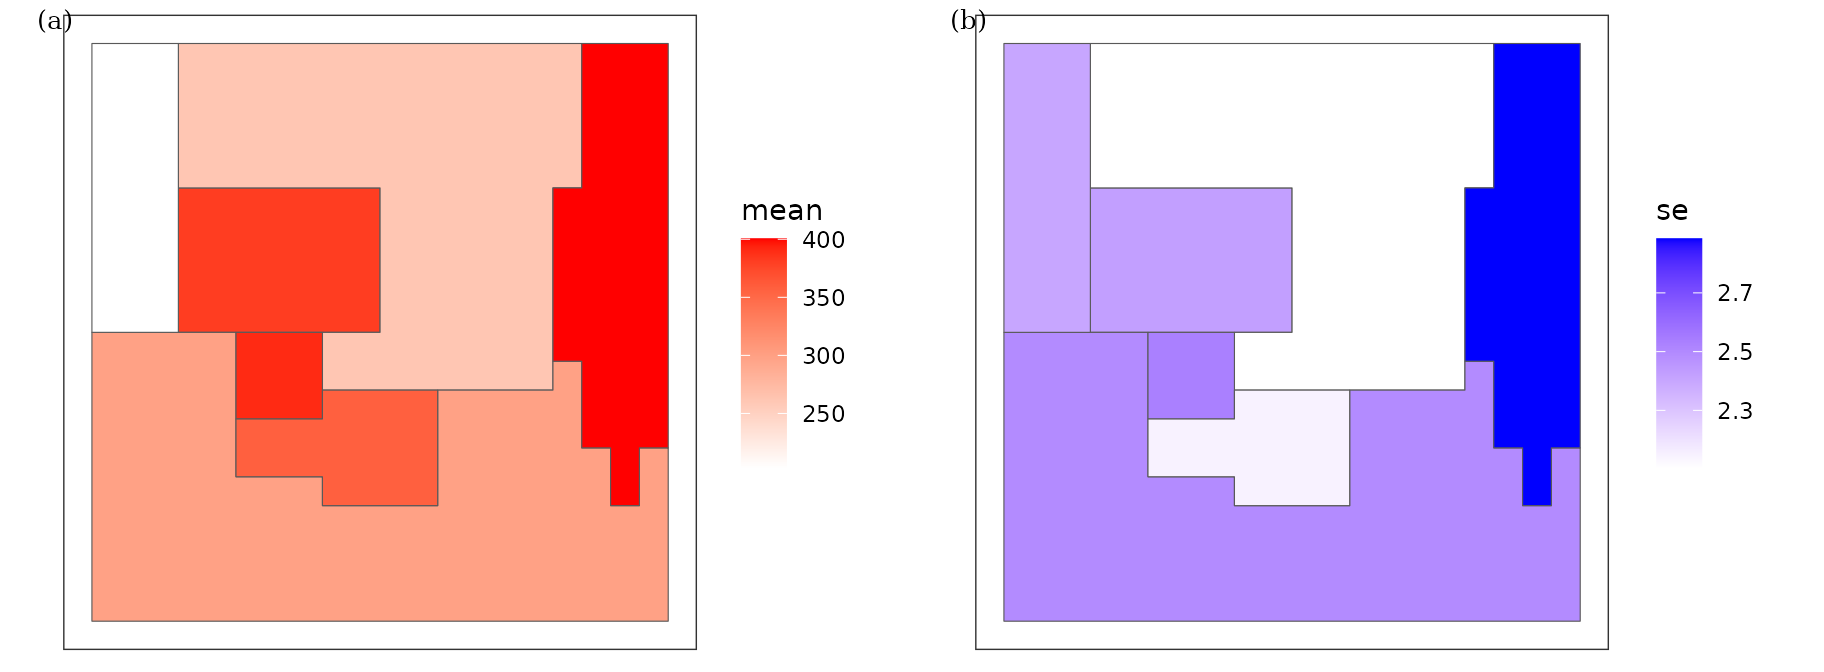
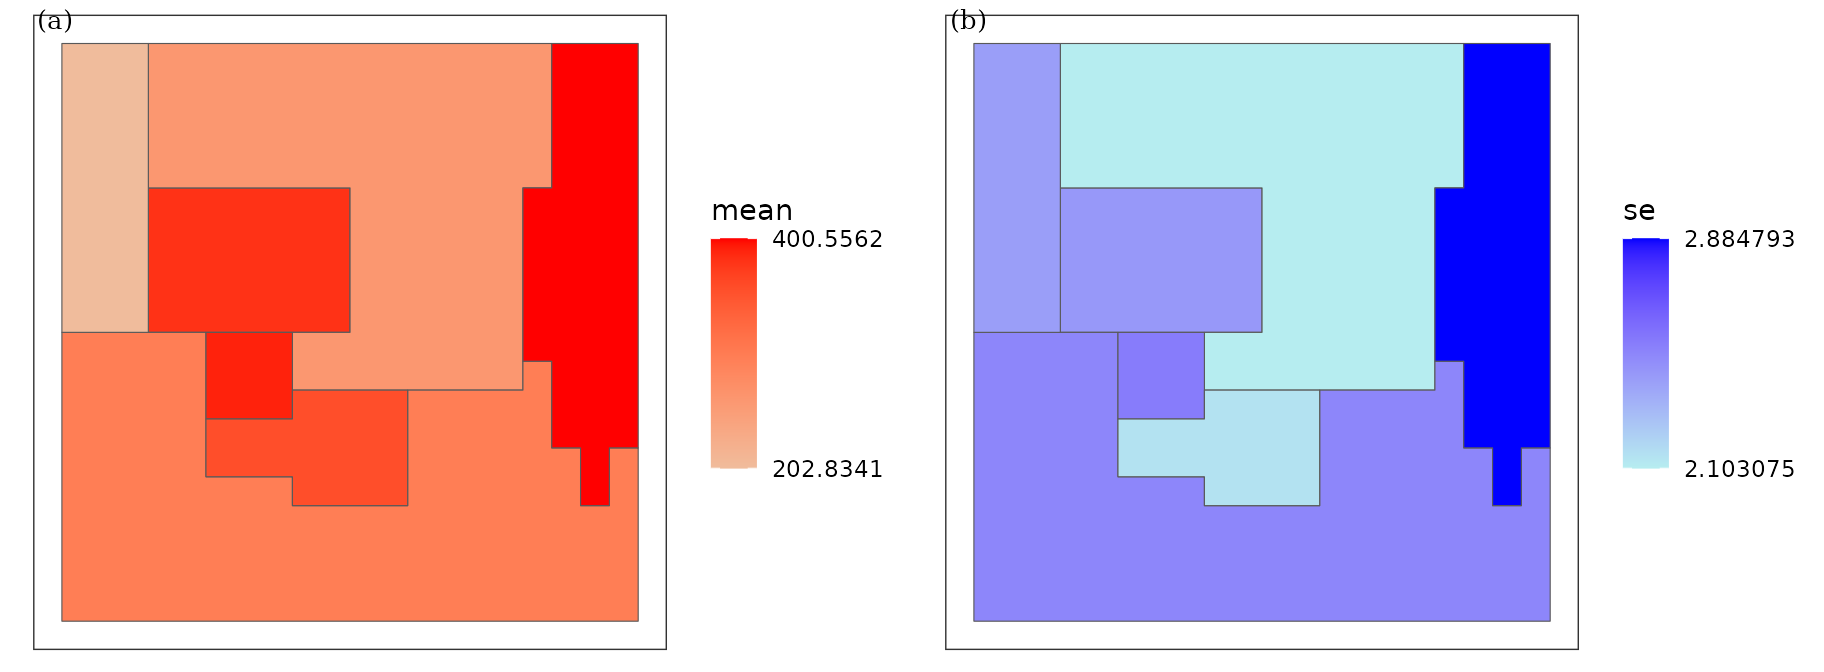
Deploying to gh-pages from @ SpatLyu/spEcula@2522d881dfac7c5d32cb272c1c871c69b7825a2f 🚀

diff --git a/news/index.html b/news/index.html
@@ -1,0 +1,82 @@
+<!DOCTYPE html>
+<!-- Generated by pkgdown: do not edit by hand --><html lang="en"><head><meta http-equiv="Content-Type" content="text/html; charset=UTF-8"><meta charset="utf-8"><meta http-equiv="X-UA-Compatible" content="IE=edge"><meta name="viewport" content="width=device-width, initial-scale=1, shrink-to-fit=no"><title>Changelog • spEcula</title><!-- favicons --><link rel="icon" type="image/png" sizes="16x16" href="../favicon-16x16.png"><link rel="icon" type="image/png" sizes="32x32" href="../favicon-32x32.png"><link rel="apple-touch-icon" type="image/png" sizes="180x180" href="../apple-touch-icon.png"><link rel="apple-touch-icon" type="image/png" sizes="120x120" href="../apple-touch-icon-120x120.png"><link rel="apple-touch-icon" type="image/png" sizes="76x76" href="../apple-touch-icon-76x76.png"><link rel="apple-touch-icon" type="image/png" sizes="60x60" href="../apple-touch-icon-60x60.png"><script src="../deps/jquery-3.6.0/jquery-3.6.0.min.js"></script><meta name="viewport" content="width=device-width, initial-scale=1, shrink-to-fit=no"><link href="../deps/bootstrap-5.3.1/bootstrap.min.css" rel="stylesheet"><script src="../deps/bootstrap-5.3.1/bootstrap.bundle.min.js"></script><!-- Font Awesome icons --><link rel="stylesheet" href="https://cdnjs.cloudflare.com/ajax/libs/font-awesome/5.12.1/css/all.min.css" integrity="sha256-mmgLkCYLUQbXn0B1SRqzHar6dCnv9oZFPEC1g1cwlkk=" crossorigin="anonymous"><link rel="stylesheet" href="https://cdnjs.cloudflare.com/ajax/libs/font-awesome/5.12.1/css/v4-shims.min.css" integrity="sha256-wZjR52fzng1pJHwx4aV2AO3yyTOXrcDW7jBpJtTwVxw=" crossorigin="anonymous"><!-- bootstrap-toc --><script src="https://cdn.jsdelivr.net/gh/afeld/bootstrap-toc@v1.0.1/dist/bootstrap-toc.min.js" integrity="sha256-4veVQbu7//Lk5TSmc7YV48MxtMy98e26cf5MrgZYnwo=" crossorigin="anonymous"></script><!-- headroom.js --><script src="https://cdnjs.cloudflare.com/ajax/libs/headroom/0.11.0/headroom.min.js" integrity="sha256-AsUX4SJE1+yuDu5+mAVzJbuYNPHj/WroHuZ8Ir/CkE0=" crossorigin="anonymous"></script><script src="https://cdnjs.cloudflare.com/ajax/libs/headroom/0.11.0/jQuery.headroom.min.js" integrity="sha256-ZX/yNShbjqsohH1k95liqY9Gd8uOiE1S4vZc+9KQ1K4=" crossorigin="anonymous"></script><!-- clipboard.js --><script src="https://cdnjs.cloudflare.com/ajax/libs/clipboard.js/2.0.11/clipboard.min.js" integrity="sha512-7O5pXpc0oCRrxk8RUfDYFgn0nO1t+jLuIOQdOMRp4APB7uZ4vSjspzp5y6YDtDs4VzUSTbWzBFZ/LKJhnyFOKw==" crossorigin="anonymous" referrerpolicy="no-referrer"></script><!-- search --><script src="https://cdnjs.cloudflare.com/ajax/libs/fuse.js/6.4.6/fuse.js" integrity="sha512-zv6Ywkjyktsohkbp9bb45V6tEMoWhzFzXis+LrMehmJZZSys19Yxf1dopHx7WzIKxr5tK2dVcYmaCk2uqdjF4A==" crossorigin="anonymous"></script><script src="https://cdnjs.cloudflare.com/ajax/libs/autocomplete.js/0.38.0/autocomplete.jquery.min.js" integrity="sha512-GU9ayf+66Xx2TmpxqJpliWbT5PiGYxpaG8rfnBEk1LL8l1KGkRShhngwdXK1UgqhAzWpZHSiYPc09/NwDQIGyg==" crossorigin="anonymous"></script><script src="https://cdnjs.cloudflare.com/ajax/libs/mark.js/8.11.1/mark.min.js" integrity="sha512-5CYOlHXGh6QpOFA/TeTylKLWfB3ftPsde7AnmhuitiTX4K5SqCLBeKro6sPS8ilsz1Q4NRx3v8Ko2IBiszzdww==" crossorigin="anonymous"></script><!-- pkgdown --><script src="../pkgdown.js"></script><meta property="og:title" content="Changelog"><meta property="og:image" content="https://spatlyu.github.io/spEcula/logo.png"><!-- mathjax --><script src="https://cdnjs.cloudflare.com/ajax/libs/mathjax/2.7.5/MathJax.js" integrity="sha256-nvJJv9wWKEm88qvoQl9ekL2J+k/RWIsaSScxxlsrv8k=" crossorigin="anonymous"></script><script src="https://cdnjs.cloudflare.com/ajax/libs/mathjax/2.7.5/config/TeX-AMS-MML_HTMLorMML.js" integrity="sha256-84DKXVJXs0/F8OTMzX4UR909+jtl4G7SPypPavF+GfA=" crossorigin="anonymous"></script><!--[if lt IE 9]>
+<script src="https://oss.maxcdn.com/html5shiv/3.7.3/html5shiv.min.js"></script>
+<script src="https://oss.maxcdn.com/respond/1.4.2/respond.min.js"></script>
+<![endif]--></head><body>
+    <a href="#main" class="visually-hidden-focusable">Skip to contents</a>
+    
+
+    <nav class="navbar fixed-top navbar-dark navbar-expand-lg bg-primary" data-bs-theme="dark"><div class="container">
+    
+    <a class="navbar-brand me-2" href="../index.html">spEcula</a>
+
+    <small class="nav-text text-muted me-auto" data-bs-toggle="tooltip" data-bs-placement="bottom" title="">0.1.2</small>
+
+    
+    <button class="navbar-toggler" type="button" data-bs-toggle="collapse" data-bs-target="#navbar" aria-controls="navbar" aria-expanded="false" aria-label="Toggle navigation">
+      <span class="navbar-toggler-icon"></span>
+    </button>
+
+    <div id="navbar" class="collapse navbar-collapse ms-3">
+      <ul class="navbar-nav me-auto"><li class="nav-item">
+  <a class="nav-link" href="../reference/index.html">Reference</a>
+</li>
+<li class="nav-item dropdown">
+  <a href="#" class="nav-link dropdown-toggle" data-bs-toggle="dropdown" role="button" aria-expanded="false" aria-haspopup="true" id="dropdown-articles">Articles</a>
+  <div class="dropdown-menu" aria-labelledby="dropdown-articles">
+    <a class="dropdown-item" href="../articles/GOS.html">Geographically Optimal Similarity Model</a>
+    <a class="dropdown-item" href="../articles/sandwich.html">Spatial prediction based on spatial stratified heterogeneity</a>
+    <a class="dropdown-item" href="../articles/ssh-test.html">Spatial Stratified Heterogeneity Test</a>
+  </div>
+</li>
+<li class="active nav-item">
+  <a class="nav-link" href="../news/index.html">Changelog</a>
+</li>
+      </ul><form class="form-inline my-2 my-lg-0" role="search">
+        <input type="search" class="form-control me-sm-2" aria-label="Toggle navigation" name="search-input" data-search-index="../search.json" id="search-input" placeholder="Search for" autocomplete="off"></form>
+
+      <ul class="navbar-nav"><li class="nav-item">
+  <a class="external-link nav-link" href="https://github.com/SpatLyu/spEcula/" aria-label="github">
+    <span class="fab fa fab fa-github fa-lg"></span>
+     
+  </a>
+</li>
+      </ul></div>
+
+    
+  </div>
+</nav><div class="container template-news">
+<div class="row">
+  <main id="main" class="col-md-9"><div class="page-header">
+      <img src="../logo.png" class="logo" alt=""><h1>Changelog</h1>
+      <small>Source: <a href="https://github.com/SpatLyu/spEcula/blob/HEAD/NEWS.md" class="external-link"><code>NEWS.md</code></a></small>
+    </div>
+
+    <div class="section level2">
+<h2 class="pkg-version" data-toc-text="development version" id="specula-development-version">spEcula (development version)<a class="anchor" aria-label="anchor" href="#specula-development-version"></a></h2>
+<ul><li>support more advanced spatial methods.</li>
+</ul></div>
+    <div class="section level2">
+<h2 class="pkg-version" data-toc-text="0.1.2" id="specula-012">spEcula 0.1.2<a class="anchor" aria-label="anchor" href="#specula-012"></a></h2>
+<ul><li>Support GOS and sandwich mapping model.</li>
+</ul></div>
+  </main><aside class="col-md-3"><nav id="toc"><h2>On this page</h2>
+    </nav></aside></div>
+
+
+    <footer><div class="pkgdown-footer-left">
+  <p>Developed by <a href="https://spatlyu.github.io/" class="external-link">Wenbo Lv</a>, Yangyang Lei.</p>
+</div>
+
+<div class="pkgdown-footer-right">
+  <p>Site built with <a href="https://pkgdown.r-lib.org/" class="external-link">pkgdown</a> 2.0.9.</p>
+</div>
+
+    </footer></div>
+
+  
+
+  
+
+  </body></html>
+

diff --git a/index.html b/index.html
@@ -55,6 +55,9 @@
     <a class="dropdown-item" href="articles/ssh-test.html">Spatial Stratified Heterogeneity Test</a>
   </div>
 </li>
+<li class="nav-item">
+  <a class="nav-link" href="news/index.html">Changelog</a>
+</li>
       </ul>
 <form class="form-inline my-2 my-lg-0" role="search">
         <input type="search" class="form-control me-sm-2" aria-label="Toggle navigation" name="search-input" data-search-index="search.json" id="search-input" placeholder="Search for" autocomplete="off">
@@ -110,7 +113,7 @@
 <span><span class="va">g1</span> <span class="op">=</span> <span class="fu"><a href="reference/gos.html">gos</a></span><span class="op">(</span><span class="va">Zn</span> <span class="op">~</span> <span class="va">Slope</span> <span class="op">+</span> <span class="va">Water</span> <span class="op">+</span> <span class="va">NDVI</span>  <span class="op">+</span> <span class="va">SOC</span> <span class="op">+</span> <span class="va">pH</span> <span class="op">+</span> <span class="va">Road</span> <span class="op">+</span> <span class="va">Mine</span>,</span>
 <span>         data <span class="op">=</span> <span class="va">zn</span>, newdata <span class="op">=</span> <span class="va">grid</span>, kappa <span class="op">=</span> <span class="fl">0.08</span>,cores <span class="op">=</span> <span class="fl">6</span><span class="op">)</span></span>
 <span><span class="fu">tictoc</span><span class="fu">::</span><span class="fu"><a href="https://rdrr.io/pkg/tictoc/man/tic.html" class="external-link">toc</a></span><span class="op">(</span><span class="op">)</span></span>
-<span><span class="co">## 10.43 sec elapsed</span></span></code></pre></div>
+<span><span class="co">## 10.83 sec elapsed</span></span></code></pre></div>
 <div class="sourceCode" id="cb4"><pre class="downlit sourceCode r">
 <code class="sourceCode R"><span><span class="va">g1</span><span class="op">$</span><span class="va">pred</span> <span class="op">=</span> <span class="fu"><a href="https://rdrr.io/r/base/Log.html" class="external-link">exp</a></span><span class="op">(</span><span class="va">g1</span><span class="op">$</span><span class="va">pred</span><span class="op">)</span></span>
 <span><span class="va">grid</span><span class="op">$</span><span class="va">pred</span> <span class="op">=</span> <span class="va">g1</span><span class="op">$</span><span class="va">pred</span></span>
@@ -259,7 +262,8 @@
 <span>            color <span class="op">=</span> <span class="st">"darkgray"</span><span class="op">)</span> <span class="op">+</span></span>
 <span>  <span class="fu"><a href="https://ggplot2.tidyverse.org/reference/ggsf.html" class="external-link">geom_sf</a></span><span class="op">(</span><span class="op">)</span> <span class="op">+</span> </span>
 <span>  <span class="fu"><a href="https://ggplot2.tidyverse.org/reference/labs.html" class="external-link">labs</a></span><span class="op">(</span>fill<span class="op">=</span><span class="st">'mean'</span><span class="op">)</span> <span class="op">+</span></span>
-<span>  <span class="fu"><a href="https://ggplot2.tidyverse.org/reference/scale_gradient.html" class="external-link">scale_fill_gradient</a></span><span class="op">(</span>low <span class="op">=</span> <span class="st">"white"</span>, high <span class="op">=</span> <span class="st">"red"</span><span class="op">)</span> <span class="op">+</span></span>
+<span>  <span class="fu"><a href="https://ggplot2.tidyverse.org/reference/scale_gradient.html" class="external-link">scale_fill_gradient</a></span><span class="op">(</span>low <span class="op">=</span> <span class="st">"#f0bc9c"</span>, high <span class="op">=</span> <span class="st">"red"</span>,</span>
+<span>                      breaks <span class="op">=</span> <span class="fu"><a href="https://rdrr.io/r/base/range.html" class="external-link">range</a></span><span class="op">(</span><span class="va">sim_est</span><span class="op">$</span><span class="va">sandwichest_mean</span><span class="op">)</span><span class="op">)</span> <span class="op">+</span></span>
 <span>  <span class="fu"><a href="https://ggplot2.tidyverse.org/reference/ggtheme.html" class="external-link">theme_bw</a></span><span class="op">(</span><span class="op">)</span> <span class="op">+</span></span>
 <span>  <span class="fu"><a href="https://ggplot2.tidyverse.org/reference/theme.html" class="external-link">theme</a></span><span class="op">(</span></span>
 <span>    axis.text <span class="op">=</span> <span class="fu"><a href="https://ggplot2.tidyverse.org/reference/element.html" class="external-link">element_blank</a></span><span class="op">(</span><span class="op">)</span>,</span>
@@ -274,7 +278,8 @@
 <span>            color <span class="op">=</span> <span class="st">"darkgray"</span><span class="op">)</span> <span class="op">+</span></span>
 <span>  <span class="fu"><a href="https://ggplot2.tidyverse.org/reference/ggsf.html" class="external-link">geom_sf</a></span><span class="op">(</span><span class="op">)</span> <span class="op">+</span> </span>
 <span>  <span class="fu"><a href="https://ggplot2.tidyverse.org/reference/labs.html" class="external-link">labs</a></span><span class="op">(</span>fill<span class="op">=</span><span class="st">'se'</span><span class="op">)</span> <span class="op">+</span></span>
-<span>  <span class="fu"><a href="https://ggplot2.tidyverse.org/reference/scale_gradient.html" class="external-link">scale_fill_gradient</a></span><span class="op">(</span>low <span class="op">=</span> <span class="st">"white"</span>, high <span class="op">=</span> <span class="st">"blue"</span><span class="op">)</span> <span class="op">+</span></span>
+<span>  <span class="fu"><a href="https://ggplot2.tidyverse.org/reference/scale_gradient.html" class="external-link">scale_fill_gradient</a></span><span class="op">(</span>low <span class="op">=</span> <span class="st">"#b6edf0"</span>, high <span class="op">=</span> <span class="st">"blue"</span>,</span>
+<span>                      breaks <span class="op">=</span> <span class="fu"><a href="https://rdrr.io/r/base/range.html" class="external-link">range</a></span><span class="op">(</span><span class="va">sim_est</span><span class="op">$</span><span class="va">sandwichest_standarderror</span><span class="op">)</span><span class="op">)</span> <span class="op">+</span></span>
 <span>  <span class="fu"><a href="https://ggplot2.tidyverse.org/reference/ggtheme.html" class="external-link">theme_bw</a></span><span class="op">(</span><span class="op">)</span> <span class="op">+</span></span>
 <span>  <span class="fu"><a href="https://ggplot2.tidyverse.org/reference/theme.html" class="external-link">theme</a></span><span class="op">(</span></span>
 <span>    axis.text <span class="op">=</span> <span class="fu"><a href="https://ggplot2.tidyverse.org/reference/element.html" class="external-link">element_blank</a></span><span class="op">(</span><span class="op">)</span>,</span>

diff --git a/articles/sandwich.html b/articles/sandwich.html
@@ -53,6 +53,9 @@
     <a class="dropdown-item" href="../articles/ssh-test.html">Spatial Stratified Heterogeneity Test</a>
   </div>
 </li>
+<li class="nav-item">
+  <a class="nav-link" href="../news/index.html">Changelog</a>
+</li>
       </ul>
 <form class="form-inline my-2 my-lg-0" role="search">
         <input type="search" class="form-control me-sm-2" aria-label="Toggle navigation" name="search-input" data-search-index="../search.json" id="search-input" placeholder="Search for" autocomplete="off">
@@ -172,7 +175,8 @@ Sandwich mapping model for each of the seven reporting units.</p>
 <span>            color <span class="op">=</span> <span class="st">"darkgray"</span><span class="op">)</span> <span class="op">+</span></span>
 <span>  <span class="fu"><a href="https://ggplot2.tidyverse.org/reference/ggsf.html" class="external-link">geom_sf</a></span><span class="op">(</span><span class="op">)</span> <span class="op">+</span> </span>
 <span>  <span class="fu"><a href="https://ggplot2.tidyverse.org/reference/labs.html" class="external-link">labs</a></span><span class="op">(</span>fill<span class="op">=</span><span class="st">'mean'</span><span class="op">)</span> <span class="op">+</span></span>
-<span>  <span class="fu"><a href="https://ggplot2.tidyverse.org/reference/scale_gradient.html" class="external-link">scale_fill_gradient</a></span><span class="op">(</span>low <span class="op">=</span> <span class="st">"white"</span>, high <span class="op">=</span> <span class="st">"red"</span><span class="op">)</span> <span class="op">+</span></span>
+<span>  <span class="fu"><a href="https://ggplot2.tidyverse.org/reference/scale_gradient.html" class="external-link">scale_fill_gradient</a></span><span class="op">(</span>low <span class="op">=</span> <span class="st">"#f0bc9c"</span>, high <span class="op">=</span> <span class="st">"red"</span>,</span>
+<span>                      breaks <span class="op">=</span> <span class="fu"><a href="https://rdrr.io/r/base/range.html" class="external-link">range</a></span><span class="op">(</span><span class="va">sim_est</span><span class="op">$</span><span class="va">sandwichest_mean</span><span class="op">)</span><span class="op">)</span> <span class="op">+</span></span>
 <span>  <span class="fu"><a href="https://ggplot2.tidyverse.org/reference/ggtheme.html" class="external-link">theme_bw</a></span><span class="op">(</span><span class="op">)</span> <span class="op">+</span></span>
 <span>  <span class="fu"><a href="https://ggplot2.tidyverse.org/reference/theme.html" class="external-link">theme</a></span><span class="op">(</span></span>
 <span>    axis.text <span class="op">=</span> <span class="fu"><a href="https://ggplot2.tidyverse.org/reference/element.html" class="external-link">element_blank</a></span><span class="op">(</span><span class="op">)</span>,</span>
@@ -187,7 +191,8 @@ Sandwich mapping model for each of the seven reporting units.</p>
 <span>            color <span class="op">=</span> <span class="st">"darkgray"</span><span class="op">)</span> <span class="op">+</span></span>
 <span>  <span class="fu"><a href="https://ggplot2.tidyverse.org/reference/ggsf.html" class="external-link">geom_sf</a></span><span class="op">(</span><span class="op">)</span> <span class="op">+</span> </span>
 <span>  <span class="fu"><a href="https://ggplot2.tidyverse.org/reference/labs.html" class="external-link">labs</a></span><span class="op">(</span>fill<span class="op">=</span><span class="st">'se'</span><span class="op">)</span> <span class="op">+</span></span>
-<span>  <span class="fu"><a href="https://ggplot2.tidyverse.org/reference/scale_gradient.html" class="external-link">scale_fill_gradient</a></span><span class="op">(</span>low <span class="op">=</span> <span class="st">"white"</span>, high <span class="op">=</span> <span class="st">"blue"</span><span class="op">)</span> <span class="op">+</span></span>
+<span>  <span class="fu"><a href="https://ggplot2.tidyverse.org/reference/scale_gradient.html" class="external-link">scale_fill_gradient</a></span><span class="op">(</span>low <span class="op">=</span> <span class="st">"#b6edf0"</span>, high <span class="op">=</span> <span class="st">"blue"</span>,</span>
+<span>                      breaks <span class="op">=</span> <span class="fu"><a href="https://rdrr.io/r/base/range.html" class="external-link">range</a></span><span class="op">(</span><span class="va">sim_est</span><span class="op">$</span><span class="va">sandwichest_standarderror</span><span class="op">)</span><span class="op">)</span> <span class="op">+</span></span>
 <span>  <span class="fu"><a href="https://ggplot2.tidyverse.org/reference/ggtheme.html" class="external-link">theme_bw</a></span><span class="op">(</span><span class="op">)</span> <span class="op">+</span></span>
 <span>  <span class="fu"><a href="https://ggplot2.tidyverse.org/reference/theme.html" class="external-link">theme</a></span><span class="op">(</span></span>
 <span>    axis.text <span class="op">=</span> <span class="fu"><a href="https://ggplot2.tidyverse.org/reference/element.html" class="external-link">element_blank</a></span><span class="op">(</span><span class="op">)</span>,</span>

diff --git a/reference/factor_detector.html b/reference/factor_detector.html
@@ -31,6 +31,9 @@ or the determinant power of a covariate X of Y."><meta property="og:image" conte
     <a class="dropdown-item" href="../articles/ssh-test.html">Spatial Stratified Heterogeneity Test</a>
   </div>
 </li>
+<li class="nav-item">
+  <a class="nav-link" href="../news/index.html">Changelog</a>
+</li>
       </ul><form class="form-inline my-2 my-lg-0" role="search">
         <input type="search" class="form-control me-sm-2" aria-label="Toggle navigation" name="search-input" data-search-index="../search.json" id="search-input" placeholder="Search for" autocomplete="off"></form>
 

diff --git a/reference/grid.html b/reference/grid.html
@@ -31,6 +31,9 @@ package."><meta property="og:image" content="https://spatlyu.github.io/spEcula/l
     <a class="dropdown-item" href="../articles/ssh-test.html">Spatial Stratified Heterogeneity Test</a>
   </div>
 </li>
+<li class="nav-item">
+  <a class="nav-link" href="../news/index.html">Changelog</a>
+</li>
       </ul><form class="form-inline my-2 my-lg-0" role="search">
         <input type="search" class="form-control me-sm-2" aria-label="Toggle navigation" name="search-input" data-search-index="../search.json" id="search-input" placeholder="Search for" autocomplete="off"></form>
 

diff --git a/reference/interaction_detector.html b/reference/interaction_detector.html
@@ -33,6 +33,9 @@ on Y are independent of each other."><meta property="og:image" content="https://
     <a class="dropdown-item" href="../articles/ssh-test.html">Spatial Stratified Heterogeneity Test</a>
   </div>
 </li>
+<li class="nav-item">
+  <a class="nav-link" href="../news/index.html">Changelog</a>
+</li>
       </ul><form class="form-inline my-2 my-lg-0" role="search">
         <input type="search" class="form-control me-sm-2" aria-label="Toggle navigation" name="search-input" data-search-index="../search.json" id="search-input" placeholder="Search for" autocomplete="off"></form>
 

diff --git a/reference/zn.html b/reference/zn.html
@@ -31,6 +31,9 @@ package."><meta property="og:image" content="https://spatlyu.github.io/spEcula/l
     <a class="dropdown-item" href="../articles/ssh-test.html">Spatial Stratified Heterogeneity Test</a>
   </div>
 </li>
+<li class="nav-item">
+  <a class="nav-link" href="../news/index.html">Changelog</a>
+</li>
       </ul><form class="form-inline my-2 my-lg-0" role="search">
         <input type="search" class="form-control me-sm-2" aria-label="Toggle navigation" name="search-input" data-search-index="../search.json" id="search-input" placeholder="Search for" autocomplete="off"></form>
 

diff --git a/404.html b/404.html
@@ -51,6 +51,9 @@
     <a class="dropdown-item" href="https://spatlyu.github.io/spEcula/articles/ssh-test.html">Spatial Stratified Heterogeneity Test</a>
   </div>
 </li>
+<li class="nav-item">
+  <a class="nav-link" href="https://spatlyu.github.io/spEcula/news/index.html">Changelog</a>
+</li>
       </ul>
 <form class="form-inline my-2 my-lg-0" role="search">
         <input type="search" class="form-control me-sm-2" aria-label="Toggle navigation" name="search-input" data-search-index="search.json" id="search-input" placeholder="Search for" autocomplete="off">

diff --git a/articles/index.html b/articles/index.html
@@ -29,6 +29,9 @@
     <a class="dropdown-item" href="../articles/ssh-test.html">Spatial Stratified Heterogeneity Test</a>
   </div>
 </li>
+<li class="nav-item">
+  <a class="nav-link" href="../news/index.html">Changelog</a>
+</li>
       </ul><form class="form-inline my-2 my-lg-0" role="search">
         <input type="search" class="form-control me-sm-2" aria-label="Toggle navigation" name="search-input" data-search-index="../search.json" id="search-input" placeholder="Search for" autocomplete="off"></form>
 

diff --git a/reference/NTDs.html b/reference/NTDs.html
@@ -29,6 +29,9 @@
     <a class="dropdown-item" href="../articles/ssh-test.html">Spatial Stratified Heterogeneity Test</a>
   </div>
 </li>
+<li class="nav-item">
+  <a class="nav-link" href="../news/index.html">Changelog</a>
+</li>
       </ul><form class="form-inline my-2 my-lg-0" role="search">
         <input type="search" class="form-control me-sm-2" aria-label="Toggle navigation" name="search-input" data-search-index="../search.json" id="search-input" placeholder="Search for" autocomplete="off"></form>
 

diff --git a/reference/ecological_detector.html b/reference/ecological_detector.html
@@ -29,6 +29,9 @@
     <a class="dropdown-item" href="../articles/ssh-test.html">Spatial Stratified Heterogeneity Test</a>
   </div>
 </li>
+<li class="nav-item">
+  <a class="nav-link" href="../news/index.html">Changelog</a>
+</li>
       </ul><form class="form-inline my-2 my-lg-0" role="search">
         <input type="search" class="form-control me-sm-2" aria-label="Toggle navigation" name="search-input" data-search-index="../search.json" id="search-input" placeholder="Search for" autocomplete="off"></form>
 

diff --git a/reference/gos.html b/reference/gos.html
@@ -29,6 +29,9 @@
     <a class="dropdown-item" href="../articles/ssh-test.html">Spatial Stratified Heterogeneity Test</a>
   </div>
 </li>
+<li class="nav-item">
+  <a class="nav-link" href="../news/index.html">Changelog</a>
+</li>
       </ul><form class="form-inline my-2 my-lg-0" role="search">
         <input type="search" class="form-control me-sm-2" aria-label="Toggle navigation" name="search-input" data-search-index="../search.json" id="search-input" placeholder="Search for" autocomplete="off"></form>
 
